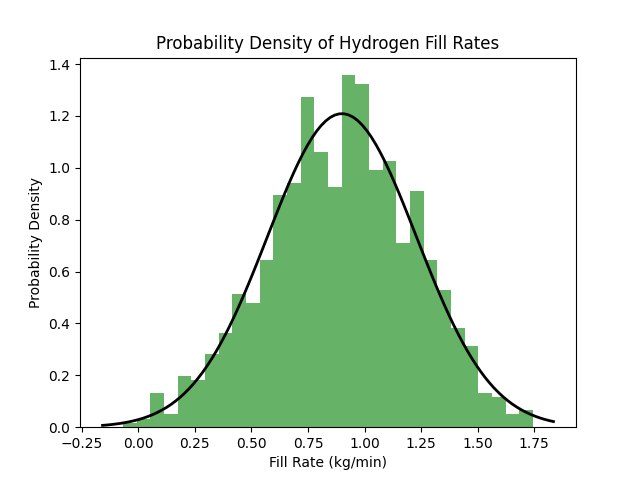
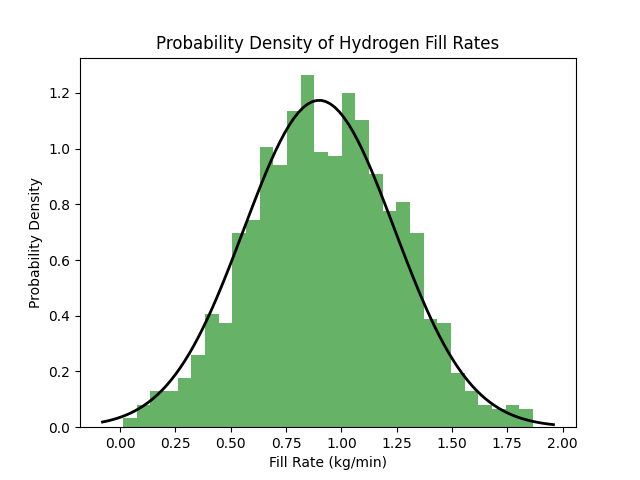
fill amount demand!

diff --git a/hydrogen_demand_calculation/fill_rate_demand.py b/hydrogen_demand_calculation/fill_rate_demand.py
@@ -1,29 +1,32 @@
 import numpy as np
-from scipy.stats import norm
 import matplotlib.pyplot as plt
+from scipy.stats import norm
 
-# Step 1: Define the parameters of the normal distribution
+# Define the mean (mu) and standard deviation (sigma) for the fill rate distribution
 mu = 0.9  # Mean fill rate (kg/min)
-sigma = 0.33 # Standard deviation (kg/min)
+sigma = 0.34  # Standard deviation (kg/min)
 
-# Step 2: Generate 1000 random fill rates based on the normal distribution
-random_fill_rates = np.random.normal(mu, sigma, 1000)
+# Step 1: Generate random fill rates based on the normal distribution
+# Generate 1000 random fill rates using the normal distribution
+simulated_fill_rates = np.random.normal(mu, sigma, 1000)
 
-# Step 3: Calculate the probability density for a specific fill rate (z = 1 kg/min)
-z = 0.9  # Specific fill rate to calculate the probability for
-probability = norm.pdf(z, mu, sigma)
-print(f"Probability Density for fill rate {z} kg/min: {probability}")
+# Step 2: Calculate the probability density for a specific fill rate (using the normal distribution formula)
+z = .93  # Specific fill rate we want to calculate the probability for
+probability_density = norm.pdf(z, mu, sigma)
 
-# Step 4: Plot the histogram of the generated fill rates and the probability density function
-plt.hist(random_fill_rates, bins=30, density=True, alpha=0.6, color='g')
+# Output the probability density for fill rate z
+print(f"Probability Density for fill rate {z} kg/min: {probability_density}")
 
-# Plot the probability density function (PDF)
+# Step 3: Plot the histogram of the simulated fill rates and the probability density function
+plt.hist(simulated_fill_rates, bins=30, density=True, alpha=0.6, color='g', label="Simulated Fill Rates")
+
+# Plot the PDF (Probability Density Function) for the normal distribution
 xmin, xmax = plt.xlim()
 x = np.linspace(xmin, xmax, 100)
 p = norm.pdf(x, mu, sigma)
-plt.plot(x, p, 'k', linewidth=2)
-plt.title("Probability Density of Hydrogen Fill Rates")
+plt.plot(x, p, 'k', linewidth=2, label="Normal Distribution PDF")
+plt.title("Simulated Hydrogen Fill Rates")
 plt.xlabel("Fill Rate (kg/min)")
 plt.ylabel("Probability Density")
-plt.savefig("fill_rate")
+plt.legend()
 plt.show()

diff --git a/hydrogen_demand_calculation/waiting time.py b/hydrogen_demand_calculation/waiting time.py
@@ -1,0 +1,20 @@
+import numpy as np
+
+# Parameters
+lambda_rate = 0.2  # Fill event rate (fills per minute)
+wait_time = 5  # Specific waiting time in minutes
+
+# Apply the formula P(W <= w) = lambda * exp(-lambda * w)
+probability_density = lambda_rate * np.exp(-lambda_rate * wait_time)
+
+# Output the result
+print(f"Probability Density for waiting time of exactly {wait_time} minutes: {probability_density:.4f}")
+
+# Calculate probability densities for different waiting times
+waiting_times = [1, 3, 5, 7, 10]
+probabilities = [lambda_rate * np.exp(-lambda_rate * w) for w in waiting_times]
+
+# Display the results
+for w, prob in zip(waiting_times, probabilities):
+    print(f"Probability Density for waiting time of {w} minutes: {prob:.4f}")
+
